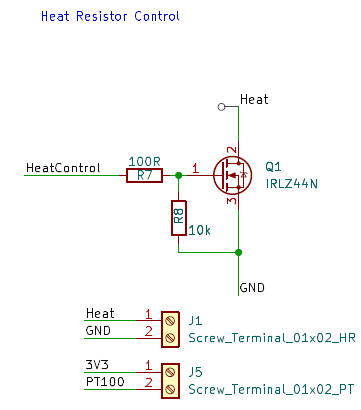
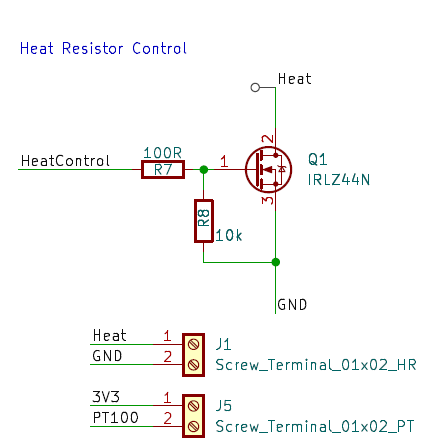
uns/wir_in4und1bissi

diff --git a/sections/methodik.tex b/sections/methodik.tex
@@ -39,7 +39,7 @@ $I^2$S-Schnittstelle.
 Aufgrund einer Unterschätzung des Aufwands beim Bau des Testroboters konnte die Geräuschsensorik im Babybett nicht mehr finalisiert werden.
 Der Einbau des Mikrofons ist auf der Main Platine vorgemerkt und kann zu einem späteren Zeitpunkt umgesetzt werden, siehe \ref{pcb123}.
 Ein Testcode zur Überprüfung der Mikrofonfunktion ist vorhanden, allerdings werden derzeit keine korrekten Daten empfangen, sodass eine sinnvolle Nutzung aktuell nicht möglich ist. 
-Sehr spät im Projektverlauf wurde uns der Tipp gegeben, die Geräuscherkennung mittels Grenzflächenmikrofon zu realisiern. Dieser Punkt wird in Abschnitt \ref{grenzflächenmic}
+Sehr spät im Projektverlauf wurde der Tipp gegeben, die Geräuscherkennung mittels Grenzflächenmikrofon zu realisiern. Dieser Punkt wird in Abschnitt \ref{grenzflächenmic}
 genauer behandelt. 
 \subsection{Wärmesensorik}
 Auch die Wärmesensorik musste unter dem Zeitdruck und der Fehleinschätzung der Arbeit am Testroboter aufgegeben werden. Der ursprüngliche Plan war es mittels Wärmebildkamera 
@@ -1097,7 +1097,7 @@ einem Ausschnitt des Schaltplans der Platine aus \ref{Heat Platinen}. Somit ergi
 P &= \frac{7,4^2}{1,5} = 36,507 W \notag \\ 
 I &= \sqrt{\frac{36,507}{1,5}} = 5,0004 A
 \end{align*}
-Der benötigte Strombedarf liegt bei unserer Leistung von 36,507W also bei ca 5A. 
+Der benötigte Strombedarf liegt bei der Leistung von 36,507W also bei ca 5A. 
 Dieser Bedarf wird von einem 20A Labornetzteil gedeckt. Aufgrund der Wahl dieser Spannungsversorgung wurde beschlossen, die weiteren 
 Komponenten des Testroboters ebenfalls mit dem Netzteil zu betreiben, siehe \ref{Spannungversorgung}.
 
@@ -1109,8 +1109,7 @@ Daher gab es einen Austausch und wir haben den RC Digital Servo 14KG mit DC Moto
 
 \subsection{Spannungsversorgung des Testroboters} \label{Spannungversorgung}
 Die Spannungsversorgung des Testroboters gestaltete sich anfangs etwas schwierig. Nach ersten Tests mit der Wärmequelle wurde uns das Ausmaß der 
-benötigten Energie bewusst, siehe \ref{Wärmequelle}. In Abstimmung mit unserem Betreuungslehrer wurde sich darauf geeinigt, die Versorgung des Testroboters ausschließlich mit der
-Verwendung eines externen 20A Netzteils zu realisieren. Da der Testroboter nur als Simulationsobjekt für die Funktion des Babybettchens entwickelt wurde, 
+benötigten Energie bewusst, siehe \ref{Wärmequelle}. Der Testroboter wird deshalb mittels 20A- Netzteil versorgt. Da der Testroboter nur als Simulationsobjekt für die Funktion des Babybettchens entwickelt wurde, 
 gibt es dementsprechend keine Auflagen bezüglich medizinisch-technischer Aspekte, siehe \ref{medizinischtechnisch}. Die Erweiterung auf eine Spannungsversorgung 
 mittels Lithium-Ionen Akku könnte in Zukunft dennoch realisiert werden \ref{Spannungsversorgung Optimierung}.
 
@@ -1473,8 +1472,8 @@ CHAR_UUID = "abcd1234-ab12-34cd-56ef-1234567890ab"
 ble_loop = asyncio.new_event_loop()     
 \end{lstlisting}
 \noindent
-asyncio.new\_event\_loop() erstellt uns eine Eventloop mit dem Namen ble\_loop. Diese ist keine Funktion der threading library
-sondern hilft uns bei der Anwendung der threading Funktionen für unseren Zweck. 
+asyncio.new\_event\_loop() erstellt eine Eventloop mit dem Namen ble\_loop. Diese ist keine Funktion der threading library
+sondern hilft bei der Anwendung der threading Funktionen für den individuellen Zweck. 
 
 \noindent
 Als nächstes wird mit den Funktionen der bleak library eine Verbindungsfunktion erstellt, siehe Listing \ref{lst:ble.py:connect}.
@@ -1506,7 +1505,7 @@ def ble_start_thread():
 \noindent
 Die Funktion ble\_start\_thread (Listing \ref{lst:ble.py:thread}) ist entscheident für die parallel laufenden 
 Eigenschaften des Programms. Zuerst wird eine run() Funktion definiert, welche dann dem Thread in Zeile 23 als 
-Argument übergeben werden kann. Zuerst wird hier dem Term event\_loop unsere zuvor erstellte ble\_loop übergeben. 
+Argument übergeben werden kann. Zuerst wird hier dem Term event\_loop die zuvor erstellte ble\_loop übergeben. 
 Zusätzlich wird sichergestellt das ble\_loop immer läuft. Mit der letzten Zeile der Funktion ble\_start\_thread wird
 der Thread zur BLE Kommunikation schließlich gestartet. 
 Das nicht blockierende, parallele System ist ab diesem Punkt fertig initialisiert und gestartet. Ab diesem Moment
@@ -1607,7 +1606,7 @@ Diese Konfiguration ist in Listing \ref{lst:main.c:blesetup} abgebildet.
   adv->start(); 
 \end{lstlisting}
 Die Sektion BLE Setup folgt dem allgemeinen Standard zur Initialisierung eines BLE-Gerätes. Mit NimBLEDevice::init("Robo"), wird dem Gerät
-der von uns gewählte Name Robo zugewiesen. Das Auslesen der MAC-Adresse des ESPs in weiterer Folge ist um die richtige Adresse im ble\_backend.py Code eintragen zu können, wie in Listing 
+der gewählte Name Robo zugewiesen. Das Auslesen der MAC-Adresse des ESPs in weiterer Folge ist um die richtige Adresse im ble\_backend.py Code eintragen zu können, wie in Listing 
 \ref{lst:ble.py:macusw} angegeben.
 Danach wird (Zeile 128 und 129) auf GATT Ebene ein Server erstellt und diesem ein Service zugeschrieben.
 Die Erstellung von einem Service ist wichtig für die Funktion der BLE Verbindung (die Funktion eines Services ist in \ref{GATT} nachzulesen), der Service ist mit 12345678-1234-1234-1234-1234567890ab,
@@ -1622,7 +1621,7 @@ ausgeführt werden soll wenn der Server eine Nachricht empfängt.
 characteristic->setValue("ready") ist eine Nachricht an den Client, sollte dieser die Characteristic lesen, empfängt er "ready".
 Mit der Funktion service->start() ist die Konfiguration des Services abgeschlossen, er ist nun auf GATT-Ebene registiert und gestartet. 
 In den Zeile 142 bis 144 wir nun die GAP-Ebene angesprochen. Zu Beginn wir der GAP-Zugriff mit  NimBLEAdvertising* adv = NimBLEDevice::getAdvertising() gestartet. Dann der 
-Service für den Client dargestellt und dann beginnt der ESP zu werben (adverting), um die Verbindung mit dem Client einzugehen. Verbindungsaufbau in unserem Projekt auch in Abbildung (\ref{fig:ble_gap_bsp})
+Service für den Client dargestellt und dann beginnt der ESP zu werben (adverting), um die Verbindung mit dem Client einzugehen. Der Verbindungsaufbau ist auch in Abbildung (\ref{fig:ble_gap_bsp})
 veranschaulicht. 
 \par\vspace{1em}
 \noindent
@@ -1662,7 +1661,7 @@ aus SchedTaskT können die einzelnen Anwendungen in verschiedene Tasks ausgelage
 So werden die Aufgaben zeitlich und ereignisbasiert ausgeführt.\cite{schedtask_lib}
 Dies ist die einfachere Methode im Vergleich zur Optimierung auf ein Real-Time System mit FreeRTOS,
 mehr dazu in \ref{RTOS}. 
-In Listing \ref{lst:main.c:SchedTasks} kann man sehen, wie einzelne Tasks erstellt werden. In unserem Fall gibt es
+In Listing \ref{lst:main.c:SchedTasks} kann man sehen, wie einzelne Tasks erstellt werden. Es gibt 
 einen Task zur Überprüfung und Auswertung gesendeter Kommandos (dieser beinhaltet auch Audio- und Wärmeansteuerung),
 einen Task zur Ansteuerung der Servos und einen der die Temperaturwerte der Wärmequelle überwacht. Dieser ist eine 
 Vorsichtsmaßnahme welche nicht zur Gänze fertiggestellt werden konnte. 
@@ -1720,6 +1719,8 @@ eine State Machine aufgebaut, siehe Abbildung \ref{fig:statediagramm}.
 \caption{Statediagramm Servo-Steuerung}
 \label{fig:statediagramm}
 \end{figure}
+
+\newpage
 \noindent
 Jeder Zustand beschreibt eine Bewegungsequenz. Wobei es jederzeit möglich ist mehr Bewegungsmuster zu implementieren. Die Bedingung um einen State zu erreichen sind die 
 state\_commands, die mit CMD\_x beschrieben sind. 
@@ -1727,8 +1728,8 @@ state\_commands, die mit CMD\_x beschrieben sind.
 \paragraph{twitching (TW)} entspricht einer diagonalen Bewegung von einem Arm und einem Bein, abwechselnd mit dem anderen Paar. Es werden also alle vier Servomotoren benötigt.
 \paragraph{gross movement (GM)} stellt die Bewegung beider Beine dar. 
 \paragraph{localized movement (LM)} hier gibt es einmal die Variante der Bewegung des rechten Beins und einmal die der Bewegung des linken Beins. 
-\newpage
 
+\par\vspace{1em}
 \noindent
 Die Statemachine wird in der Funktion BleCmd() sobald eine der bewegungsbezogenen Kommandoflags gesetzt wurde gestartet indem ein state\_command gesetzt wird, siehe 
 Listing \ref{lst:main.c:statecmd}
@@ -1765,7 +1766,7 @@ Hier wird die Bewegung der Servos mit der dem triggern der ServoCallback-Funktio
 \noindent
 Um die Ansteuerung der Servos mit dem Bewegungssequenzen
 abstimmen zu können wurden die Zielwinkel in Look-Up-Tables (LUT) geschrieben. Am Beispiel des Zustands TW ist dies in Listing \ref{lst:main.c:LUT} beschrieben. 
-\newpage
+
 \begin{lstlisting}[language=C++, caption={Zielwinkel Ansteuerung mit LUT}, label={lst:main.c:LUT}, firstnumber=277]
 int TWITCHING_lut[SEQUENCES][SERVOS] = {
  //S1 S2 S3 S4 
@@ -1797,7 +1798,6 @@ void Servo1TargetReachedHandler(ServoEasing *aServoEasingInstance){
   }
 }
 \end{lstlisting} 
-\newpage 
 
 \subsubsection{Audio Ansteuerung}
 Die Steuerung der Audiodateien läuft im BleCmd() SchedTask, mithilfe der Bibliothek DFRobotDFPlayerMini siehe Listing \ref{lst:main.c:audio}

diff --git a/sections/diskussion.tex b/sections/diskussion.tex
@@ -1,8 +1,8 @@
-\chapter{Diskussion}
+ \chapter{Diskussion}
 
 \section[Babybettchen]{Babybettchen}
 \subsection[Gehäuse für die Platine]{Gehäuse für die Platine\authorlinda} \label{Platinen-Gehäuse}
-Da die Platine kein wirkliches Gehäuse hat, wäre es sinnvoll ein solches zu designen und fertigen. Wir haben uns dazu bereits Gedanken gemacht und unser Ansatz wäre es mittels 3D-Druck ein Gehäuse zu fertigen. 
+Da die Platine kein wirkliches Gehäuse hat, wäre es sinnvoll ein solches zu designen und fertigen. Der Gedanken ist mittels 3D-Druck ein Gehäuse zu fertigen. 
 
 \par\vspace{1em}
 
@@ -12,14 +12,16 @@ Der Plan war es ein Art Box zu entwerfen, in welcher die Platine und die Powerba
 \noindent
 Danach müsste das Gehäuse über Bohrungen mit der Holzplatte, welche sich unter der Matratze des Babybettchens befindet, verbunden werden. Dadurch könnte sich die Platine an der gleichen Stelle unter dem Babybettchen, wie zuvor befinden.
 
-\subsection[weitere Drucksensoren]{weitere Drucksensoren\authorlinda} \label{weitere Drucksensoren}
+\subsection[Weitere Drucksensoren]{weitere Drucksensoren\authorlinda} \label{weitere Drucksensoren}
 Die Genauigkeit des Systems könnte durch die Verwendung von noch mehr Drucksensoren profitieren. Denn dadurch können mehr Messwerte miteinander verglichen und ausgewertet werden.
 
 \noindent
 Was auch noch zu beachten ist, dass ein Baby nicht immer an der gleichen Stelle liegen würde und somit nicht immer alle Drucksensoren abdecken würde. Was dazu führen würde, dass nicht alle Bewegungen des Babys erkannt werden würden.
 
 \subsection[Herzschlag mit Drucksensoren messen]{Herzschlag mit Drucksensoren messen\authorlinda} \label{Herzschlag-Drucksensoren}
-Es wurde auch in Betracht gezogen, ob es möglich wäre den Herzschlag des Babys mithilfe von Drucksensoren zu messen. Dafür würde wahrscheinlich eine größere Drucksensor Matrix und Sensoren, welche sehr genaue Messungen durchführen können, benötigt werden. Diese Messung wäre dennoch eine interessante Ergänzung für unser System und würde unsere Grundidee unterstützen. Leider war es uns nicht möglich, diese Messung in unserem System zu inkludieren und fanden auch keine Ansatzpunkte die für uns realisierbar waren. 
+Es wurde auch in Betracht gezogen, ob es möglich wäre den Herzschlag des Babys mithilfe von Drucksensoren zu messen. Dafür würde wahrscheinlich eine größere Drucksensor Matrix und Sensoren,
+welche sehr genaue Messungen durchführen können, benötigt werden. Diese Messung wäre dennoch eine interessante Ergänzung für das System
+und würde die Grundidee unterstützen. Leider war es uns nicht möglich, diese Messung ins System zu inkludieren und fanden auch keine Ansatzpunkte die für uns realisierbar waren. 
 %\subsection[Wärmeerkennung]{Wärmeerkennung\authorkatrin} \label{Wärmeerkennung} maybe 
 
 \subsection[Temperaturmessung mit Körperkontakt]{Temperaturmessung mit Körperkontakt\authorkatrin} \label{Temperaturmessung mit Körperkonkakt}
@@ -35,9 +37,9 @@ der Grenzflächenakustik genutzt. Dieses sagt aus, dass die Druckschwankung, als
 festen Materials ein Maximum erreicht. So werden Interferenzen und Refelxionen reduziert und man bekommt nahezu störfreie 
 Audiosignale. \cite{grenzflaechenmikrofon_wikipedia}
 \subsubsection{Umbau auf ein Grenzflächenmikrofon}
-Dadurch dass wir schon ein Mikrophon haben, kommt für uns eher der Umbau von diesem in Frage. Der komplette Umstieg auf ein gekaufetes Grenzflächenmikrofon ist nicht unbedingt 
+Da das Mikrophon schon gekauft und im Schaltplan vermerkt ist, kommt eher der Umbau von diesem in Frage. Der komplette Umstieg auf ein gekaufetes Grenzflächenmikrofon ist nicht unbedingt 
 notwendig, da das Prinzip ja nicht mit dem Mikrofontyp sondern mit der Positionierung zusammenhängt. Mit ein paar kleinen mechanischen Anpassungen lässt sich eine Konstruktion 
-für unser INMP441 bauen, welche die physikalischen Eigenschaften und Vorteile eines Grenzflächenmikrofons mit sich bringt. Montiert man es zum Beispiel mit der Mikrofonöffung 
+für das INMP441-Mikrophon bauen, welche die physikalischen Eigenschaften und Vorteile eines Grenzflächenmikrofons mit sich bringt. Montiert man es zum Beispiel mit der Mikrofonöffung 
 zum Material zeigend, auf einer glatten, festen Oberfläche, könnte dies zur Verbesserung der Datenqualität durch das Grenzflächenprinzip beitragen.
 
 \section[Babybettchen Code]{Babybettchen Code\authorlinda}
@@ -85,5 +87,5 @@ nicht tolerierbar ist.
 Das Betriebssystem des ESP32 ist ein Real Time System, namens FreeRTOS. Es ist open-source und wird in vielen 
 Mikrocontrolersystemen eingesetzt. Es ist möglich aus einem eigenen Programm eine Real Time Anwendung zu erzeugen, indem man 
 den 2 Kernen des ESP32 verschiedene Tasks zuteilt. Dies funktioniert mittels FreeRTOS.
-Unser System könnte mit dieser Technik von einem Task-Scheduling zu einem Echtzeitsystem optimiert werden. Welches auch Priorätisierung und 
+Das System könnte mit dieser Technik von einem Task-Scheduling zu einem Echtzeitsystem optimiert werden. Welches auch Priorätisierung und 
 Zeitrahmenvorgaben steuern kann. \cite{freertos_esp_idf} \cite{echtzeitsystem_heinen_elektronik} 

diff --git a/sections/testroboterPCBs.tex b/sections/testroboterPCBs.tex
@@ -1,7 +1,6 @@
 
 \subsection{Prinzip}
 Die Hauptplatine des Testroboters hat den Zweck den Großteil der benötigten Elektronik abzudecken. Das Erstellen von Schaltplan und Layout wurde mithilfe von KiCad realisiert. 
-Da KiCad davor noch nie von uns verwendet wurde, begann ein umfangreicher Lernprozess mit vielen Stolpersteinen. 
 \par\vspace{1em}
 \noindent
 Auf der Hauptplantine sollen der ESP32, das DFPlayer-Modul, Anschlüsse zur Servoansteuerung und Anschlüsse zur Wärmeansteuerung untergebracht werden. Zudem gibt es noch 
@@ -147,7 +146,7 @@ Auch das DFPlayer-Modul ist nur mittels Stiftleisten auf der Platine befestigt.
 \noindent
 Die Spannungsreglerschaltung im Layout wurde auf den LM2596Adj (adjustable) angepasst. Sie beeinhaltet das 50k$\Omega$ Potentiometer, welches dann einen 
 variablen Spannungswert am Ausgang einstellen kann. Bei der Auswahl der zu bestückenden Teile wurde darauf vergessen. Es wurde fälschlicherweise der 
-LM2596-5 von JLCPCB bestückt, welcher aztomatisch auf 5V regelt. Die Spannung brach so bei den Testdurchläufen immer wieder ein, und es konnte keine konstante Spannungsversorgung 
+LM2596-5 von JLCPCB bestückt, welcher automatisch auf 5V regelt. Die Spannung brach so bei den Testdurchläufen immer wieder ein, und es konnte keine konstante Spannungsversorgung 
 garantiert werden. Diese ist vor allem für die BLE Verbindung unbedingt notwendig, gibt es keine konstante oder zu wenig Spannung kann der Laptop 
 den ESP nicht als Verbindungspartner wahrnehmen. Zur Lösung wurde das Potentiometer mit einem Stück Draht überbrückt, siehe Abbildung \ref{fig:pcb:draht}.
 
@@ -172,7 +171,7 @@ bei zu hohen Temperaturen die Wärmesimulation abschalten kann.
 \begin{figure}[H]
 \centering
 \includegraphics[width = 10cm]{images/PCBs/H_layout.png}
-\caption{Layout der Heat-Platine des Testroboters}
+\caption{Layout der Heat-Platine}
 \label{fig:pcb:H_layout}
 \end{figure}
 Das Layout der Heat-Platine, siehe Abbildung \ref{fig:pcb:H_layout} muss nicht so vielen Anforderungen entsprechen wie das der Haupplatine. Der wichtigste Askpekt war es, die Versorgungsleiterbahnen 
@@ -204,9 +203,9 @@ erleichtern. In Abbildung \ref{fig:pcb:mainH} ist die von JLCPCB gefertigte Plat
 
 \par\vspace{1em}
 \noindent
-Beim Testen ist uns eine Diskrepanz zwischen dem Verlauf der Leiterbahnen der gefertigten 
-Heat-Platine und dem Verlauf der selben Leiterbahnen in unserem KiCad-Projektordner aufgefallen. Es muss versehentlich eine ältere Version des Layouts gefertigt worden sein. 
-Dieser Fehler gestaletet sich aber nicht weiter schlimm, da er keine Auswirkungen auf die Funktion der Leiterplatte hatte. Es mussten nur die Schraubklemmen neu beschriftet werden.
+Beim Testen ist eine Diskrepanz zwischen dem Verlauf der Leiterbahnen der gefertigten 
+Heat-Platine und dem Verlauf der selben Leiterbahnen im KiCad-Projektordner aufgedeckt worden. Es muss versehentlich eine ältere Version des Layouts gefertigt worden sein. 
+Dieser Fehler ist nicht weiter schlimm, da er keine Auswirkungen auf die Funktion der Leiterplatte hat. Es mussten nur die Schraubklemmen neu beschriftet werden.
 In Abbildung \ref{fig:pcb:schaubild} ist dieser Fehler dargestellt.
 
 \begin{figure}[H]

diff --git a/sections/theorieRoboter.tex b/sections/theorieRoboter.tex
@@ -218,14 +218,12 @@ Aus dem Datenblatt des DFPlayer Moduls kann man die commands für die einzelnen
 Funktionen des Moduls herauslesen. Zur Programmierung ist es jedoch nicht erforderlich die commands manuell 
 zu codieren da die Library DFRobotDFPlayerMini \cite{dfplayer_lib} diese in Funktionen implementiert hat. 
 \subsubsection{Lautsprecher}
-Die Audioausgabe erfolgt über einen 8 Ohm Lautsprecher. Die Audioausgabe erfolgt über einen 8-Ohm-Lautsprecher.
+Die Audioausgabe erfolgt über einen 8-Ohm-Lautsprecher.
 Dieser wandelt elektrische Audiosignale in mechanische Schwingungen (Schallwellen) um, die anschließend als hörbarer Ton übertragen werden.
 Das Funktionsprinzip basiert dabei auf dem elektrodynamischen Effekt: Ein stromdurchflossener Leiter (Schwingspule) befindet sich in einem
-Magnetfeld und wird durch die wirkende Lorentzkraft in Schwingung versetzt. Diese Bewegung wird auf eine Membran übertragen, die die Luft in Schwingung versetzt und somit Schall erzeugt.
-
-\noindent
-Die Impedanz von 8 Ohm stellt einen typischen Wert für Kleinlautsprecher dar und ist entscheidend für die Auslegung der Ansteuerelektronik.
-Um eine ausreichende Lautstärke zu erzielen, wird der Lautsprecher in der Regel über einen Verstärker angesteuert, da Mikrocontroller alleine meist nicht genügend Leistung liefern können.
+Magnetfeld und wird durch die wirkende Lorentzkraft in Schwingung versetzt.
+Diese Bewegung wird auf eine Membran übertragen, die die Luft in Schwingung versetzt und somit Schall erzeugt.
+Die Impedanz von 8 Ohm stellt einen typischen Wert für Kleinlautsprecher dar.
 
 \subsection{Wärmesimulation} %1.6.5
 \subsubsection{Keramikwiderstände}
